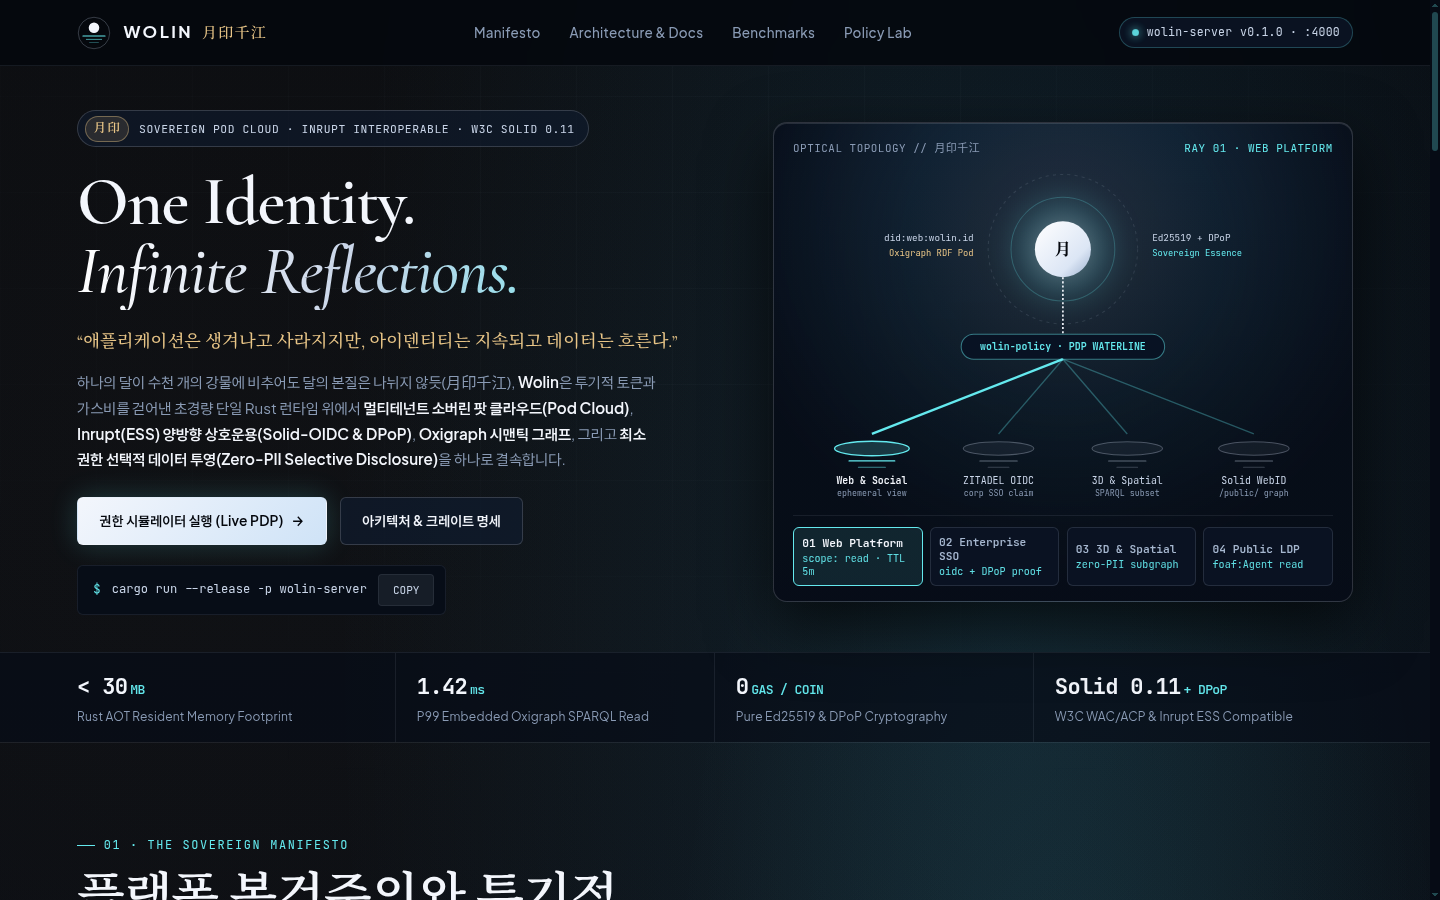
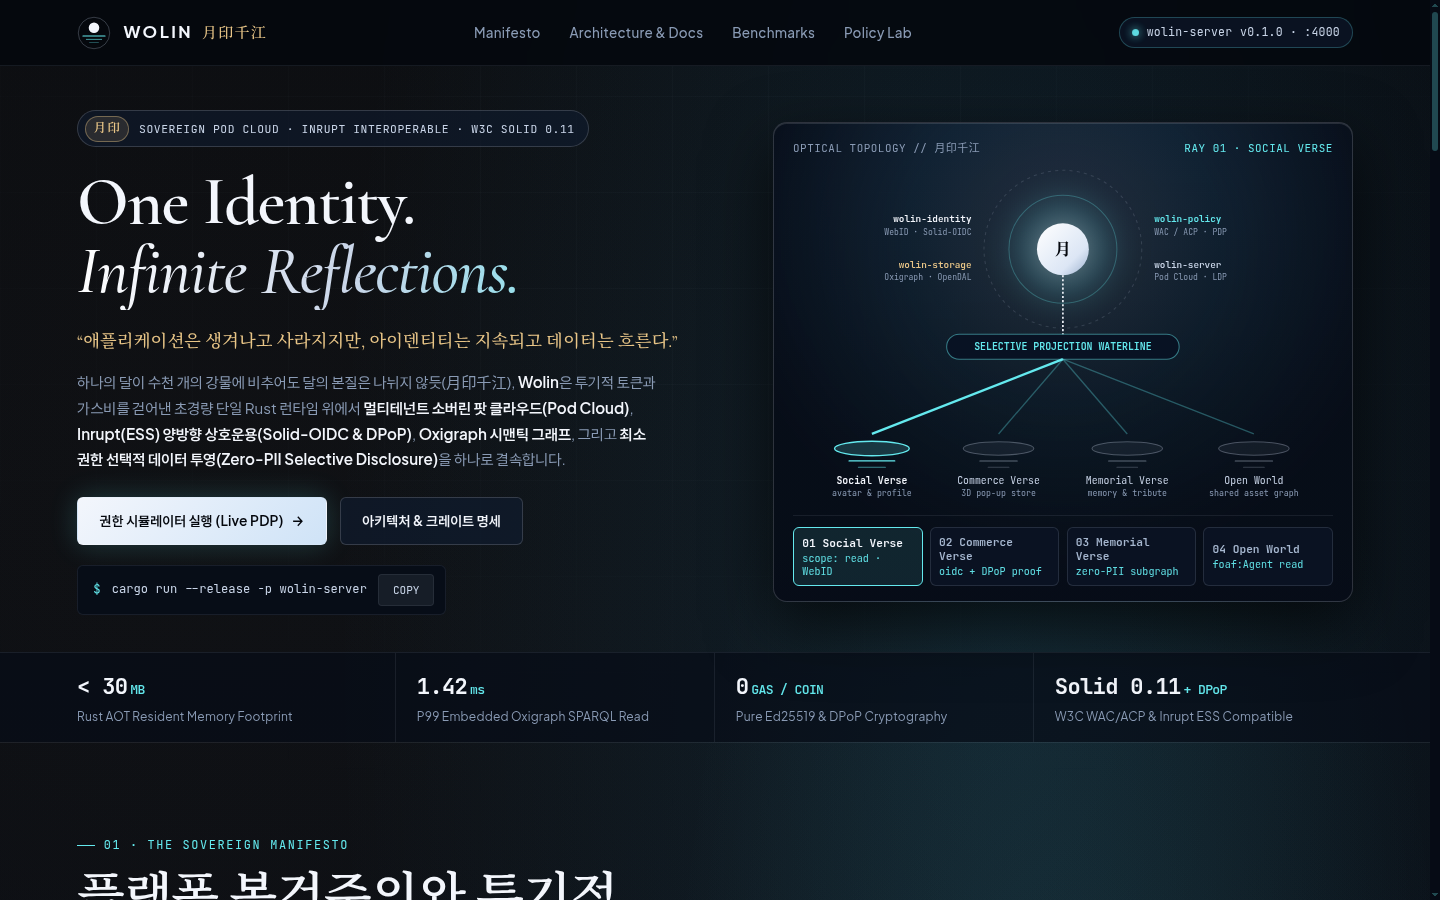
feat(web): embed core Wolin modules in the Moon and metaverse apps as reflected shadows

diff --git a/index.html b/index.html
@@ -1661,7 +1661,7 @@
         <div class="astrolabe-stage" role="region" aria-label="Lunar Reflection Projection Diagram">
           <div class="astrolabe-topbar">
             <span>OPTICAL TOPOLOGY // 月印千江</span>
-            <span id="active-ray-label" style="color: var(--refraction);">RAY 01 · WEB PLATFORM</span>
+            <span id="active-ray-label" style="color: var(--refraction);">RAY 01 · SOCIAL VERSE</span>
           </div>
 
           <svg class="astrolabe-svg" viewBox="0 0 520 332" fill="none" xmlns="http://www.w3.org/2000/svg">
@@ -1683,31 +1683,37 @@
               </linearGradient>
             </defs>
 
-            <!-- Astronomical Orbit Rings -->
-            <circle cx="260" cy="84" r="72" stroke="rgba(201,213,232,0.13)" stroke-dasharray="3 4"/>
-            <circle cx="260" cy="84" r="50" stroke="rgba(100,233,238,0.24)" stroke-width="1"/>
+            <!-- Astronomical Orbit Rings (One Moon Containing Core Wolin Modules) -->
+            <circle cx="260" cy="84" r="76" stroke="rgba(201,213,232,0.16)" stroke-dasharray="3 4"/>
+            <circle cx="260" cy="84" r="52" stroke="rgba(100,233,238,0.28)" stroke-width="1"/>
             <circle cx="260" cy="84" r="84" fill="url(#moonHalo)"/>
 
-            <!-- Sovereign Moon (Singular Identity & Semantic Pod) -->
-            <circle cx="260" cy="84" r="27" fill="url(#moonSurface)"/>
+            <!-- Sovereign Moon (Singular Identity & Wolin Core) -->
+            <circle cx="260" cy="84" r="25" fill="url(#moonSurface)"/>
             <text x="260" y="89.5" text-anchor="middle" fill="#04070D" font-family="Cormorant Garamond, Noto Serif KR, serif" font-weight="700" font-size="16">月</text>
 
-            <!-- Symmetrical Coordinate Callouts Outside Orbit -->
-            <text x="174" y="76" text-anchor="end" fill="#C9D5E8" font-family="JetBrains Mono, monospace" font-size="9">did:web:wolin.id</text>
-            <text x="174" y="91" text-anchor="end" fill="#E8C587" font-family="JetBrains Mono, monospace" font-size="8.5">Oxigraph RDF Pod</text>
+            <!-- Core Wolin Modules Orbiting Inside the One Moon -->
+            <text x="172" y="58" text-anchor="end" fill="#F3F6FC" font-family="JetBrains Mono, monospace" font-size="9" font-weight="600">wolin-identity</text>
+            <text x="172" y="70" text-anchor="end" fill="#8A9BB5" font-family="JetBrains Mono, monospace" font-size="7.8">WebID · Solid-OIDC</text>
 
-            <text x="346" y="76" text-anchor="start" fill="#C9D5E8" font-family="JetBrains Mono, monospace" font-size="9">Ed25519 + DPoP</text>
-            <text x="346" y="91" text-anchor="start" fill="#64E9EE" font-family="JetBrains Mono, monospace" font-size="8.5">Sovereign Essence</text>
+            <text x="172" y="102" text-anchor="end" fill="#E8C587" font-family="JetBrains Mono, monospace" font-size="9" font-weight="600">wolin-storage</text>
+            <text x="172" y="114" text-anchor="end" fill="#8A9BB5" font-family="JetBrains Mono, monospace" font-size="7.8">Oxigraph · OpenDAL</text>
+
+            <text x="348" y="58" text-anchor="start" fill="#64E9EE" font-family="JetBrains Mono, monospace" font-size="9" font-weight="600">wolin-policy</text>
+            <text x="348" y="70" text-anchor="start" fill="#8A9BB5" font-family="JetBrains Mono, monospace" font-size="7.8">WAC / ACP · PDP</text>
+
+            <text x="348" y="102" text-anchor="start" fill="#C9D5E8" font-family="JetBrains Mono, monospace" font-size="9" font-weight="600">wolin-server</text>
+            <text x="348" y="114" text-anchor="start" fill="#8A9BB5" font-family="JetBrains Mono, monospace" font-size="7.8">Pod Cloud · LDP</text>
 
             <!-- Incident Beam from Moon to Policy Waterline -->
-            <line x1="260" y1="111" x2="260" y2="178" stroke="#F3F6FC" stroke-width="1.6" stroke-dasharray="2 2"/>
+            <line x1="260" y1="109" x2="260" y2="178" stroke="#F3F6FC" stroke-width="1.6" stroke-dasharray="2 2"/>
 
             <!-- Waterline Horizon: Policy Decision & Selective Disclosure Membrane -->
             <line x1="20" y1="178" x2="500" y2="178" stroke="url(#horizonGlow)" stroke-width="2"/>
-            <rect x="162" y="166" width="196" height="24" rx="12" fill="#081223" stroke="rgba(100,233,238,0.48)"/>
-            <text x="260" y="181.5" text-anchor="middle" fill="#64E9EE" font-family="JetBrains Mono, monospace" font-size="9.5" font-weight="600">wolin-policy · PDP WATERLINE</text>
+            <rect x="148" y="166" width="224" height="24" rx="12" fill="#081223" stroke="rgba(100,233,238,0.48)"/>
+            <text x="260" y="181.5" text-anchor="middle" fill="#64E9EE" font-family="JetBrains Mono, monospace" font-size="9.5" font-weight="600">SELECTIVE PROJECTION WATERLINE</text>
 
-            <!-- Refracted Projection Rays into 4 Rivers -->
+            <!-- Refracted Projection Rays into 4 Metaverse Apps -->
             <g id="refraction-rays">
               <path id="ray-0" d="M260 190 L76 262" stroke="#64E9EE" stroke-width="2.3" opacity="1"/>
               <path id="ray-1" d="M260 190 L198 262" stroke="rgba(100,233,238,0.32)" stroke-width="1.25"/>
@@ -1715,60 +1721,60 @@
               <path id="ray-3" d="M260 190 L444 262" stroke="rgba(100,233,238,0.32)" stroke-width="1.25"/>
             </g>
 
-            <!-- 4 River Reflection Nodes (Shimmering Water Ripples) -->
-            <!-- River 0 -->
+            <!-- 4 Metaverse App Reflection Nodes (Moon's Shadows on Water) -->
+            <!-- Metaverse 0 -->
             <g transform="translate(76, 276)">
               <ellipse cx="0" cy="0" rx="36" ry="7" fill="rgba(100,233,238,0.18)" stroke="#64E9EE" stroke-width="1.3" id="ripple-0"/>
               <line x1="-22" y1="12" x2="22" y2="12" stroke="#64E9EE" stroke-width="1.2" stroke-linecap="round"/>
               <line x1="-13" y1="18" x2="13" y2="18" stroke="rgba(100,233,238,0.55)" stroke-width="1" stroke-linecap="round"/>
-              <text x="0" y="34" text-anchor="middle" fill="#F3F6FC" font-family="JetBrains Mono, monospace" font-size="9.5" font-weight="600">Web &amp; Social</text>
-              <text x="0" y="46" text-anchor="middle" fill="#8A9BB5" font-family="JetBrains Mono, monospace" font-size="8">ephemeral view</text>
+              <text x="0" y="34" text-anchor="middle" fill="#F3F6FC" font-family="JetBrains Mono, monospace" font-size="9.5" font-weight="600">Social Verse</text>
+              <text x="0" y="46" text-anchor="middle" fill="#8A9BB5" font-family="JetBrains Mono, monospace" font-size="8">avatar &amp; profile</text>
             </g>
 
-            <!-- River 1 -->
+            <!-- Metaverse 1 -->
             <g transform="translate(198, 276)">
               <ellipse cx="0" cy="0" rx="34" ry="6.5" fill="rgba(201,213,232,0.06)" stroke="rgba(201,213,232,0.32)" stroke-width="1" id="ripple-1"/>
               <line x1="-18" y1="12" x2="18" y2="12" stroke="rgba(201,213,232,0.45)" stroke-width="1" stroke-linecap="round"/>
               <line x1="-10" y1="18" x2="10" y2="18" stroke="rgba(201,213,232,0.25)" stroke-width="1" stroke-linecap="round"/>
-              <text x="0" y="34" text-anchor="middle" fill="#C9D5E8" font-family="JetBrains Mono, monospace" font-size="9.5">ZITADEL OIDC</text>
-              <text x="0" y="46" text-anchor="middle" fill="#8A9BB5" font-family="JetBrains Mono, monospace" font-size="8">corp SSO claim</text>
+              <text x="0" y="34" text-anchor="middle" fill="#C9D5E8" font-family="JetBrains Mono, monospace" font-size="9.5">Commerce Verse</text>
+              <text x="0" y="46" text-anchor="middle" fill="#8A9BB5" font-family="JetBrains Mono, monospace" font-size="8">3D pop-up store</text>
             </g>
 
-            <!-- River 2 -->
+            <!-- Metaverse 2 -->
             <g transform="translate(322, 276)">
               <ellipse cx="0" cy="0" rx="34" ry="6.5" fill="rgba(201,213,232,0.06)" stroke="rgba(201,213,232,0.32)" stroke-width="1" id="ripple-2"/>
               <line x1="-18" y1="12" x2="18" y2="12" stroke="rgba(201,213,232,0.45)" stroke-width="1" stroke-linecap="round"/>
               <line x1="-10" y1="18" x2="10" y2="18" stroke="rgba(201,213,232,0.25)" stroke-width="1" stroke-linecap="round"/>
-              <text x="0" y="34" text-anchor="middle" fill="#C9D5E8" font-family="JetBrains Mono, monospace" font-size="9.5">3D &amp; Spatial</text>
-              <text x="0" y="46" text-anchor="middle" fill="#8A9BB5" font-family="JetBrains Mono, monospace" font-size="8">SPARQL subset</text>
+              <text x="0" y="34" text-anchor="middle" fill="#C9D5E8" font-family="JetBrains Mono, monospace" font-size="9.5">Memorial Verse</text>
+              <text x="0" y="46" text-anchor="middle" fill="#8A9BB5" font-family="JetBrains Mono, monospace" font-size="8">memory &amp; tribute</text>
             </g>
 
-            <!-- River 3 -->
+            <!-- Metaverse 3 -->
             <g transform="translate(444, 276)">
               <ellipse cx="0" cy="0" rx="34" ry="6.5" fill="rgba(201,213,232,0.06)" stroke="rgba(201,213,232,0.32)" stroke-width="1" id="ripple-3"/>
               <line x1="-18" y1="12" x2="18" y2="12" stroke="rgba(201,213,232,0.45)" stroke-width="1" stroke-linecap="round"/>
               <line x1="-10" y1="18" x2="10" y2="18" stroke="rgba(201,213,232,0.25)" stroke-width="1" stroke-linecap="round"/>
-              <text x="0" y="34" text-anchor="middle" fill="#C9D5E8" font-family="JetBrains Mono, monospace" font-size="9.5">Solid WebID</text>
-              <text x="0" y="46" text-anchor="middle" fill="#8A9BB5" font-family="JetBrains Mono, monospace" font-size="8">/public/ graph</text>
+              <text x="0" y="34" text-anchor="middle" fill="#C9D5E8" font-family="JetBrains Mono, monospace" font-size="9.5">Open World</text>
+              <text x="0" y="46" text-anchor="middle" fill="#8A9BB5" font-family="JetBrains Mono, monospace" font-size="8">shared asset graph</text>
             </g>
           </svg>
 
-          <!-- Interactive River Selector -->
-          <div class="river-selector-bar" role="tablist" aria-label="Select River Projection">
+          <!-- Interactive Metaverse App Selector -->
+          <div class="river-selector-bar" role="tablist" aria-label="Select Metaverse Reflection">
             <button type="button" role="tab" aria-selected="true" class="river-chip active" onclick="focusRiver(0, this)">
-              <span class="river-chip-title">01 Web Platform</span>
-              <span class="river-chip-scope">scope: read · TTL 5m</span>
+              <span class="river-chip-title">01 Social Verse</span>
+              <span class="river-chip-scope">scope: read · WebID</span>
             </button>
             <button type="button" role="tab" aria-selected="false" class="river-chip" onclick="focusRiver(1, this)">
-              <span class="river-chip-title">02 Enterprise SSO</span>
+              <span class="river-chip-title">02 Commerce Verse</span>
               <span class="river-chip-scope">oidc + DPoP proof</span>
             </button>
             <button type="button" role="tab" aria-selected="false" class="river-chip" onclick="focusRiver(2, this)">
-              <span class="river-chip-title">03 3D &amp; Spatial</span>
+              <span class="river-chip-title">03 Memorial Verse</span>
               <span class="river-chip-scope">zero-PII subgraph</span>
             </button>
             <button type="button" role="tab" aria-selected="false" class="river-chip" onclick="focusRiver(3, this)">
-              <span class="river-chip-title">04 Public LDP</span>
+              <span class="river-chip-title">04 Open World</span>
               <span class="river-chip-scope">foaf:Agent read</span>
             </button>
           </div>
@@ -2265,10 +2271,10 @@ WHERE {
 
     // 2. Interactive Hero Lunar Reflection Astrolabe
     const riverMeta = [
-      { label: 'RAY 01 · WEB PLATFORM (SCOPED READ)' },
-      { label: 'RAY 02 · ZITADEL ENTERPRISE OIDC' },
-      { label: 'RAY 03 · 3D & SPATIAL WEB PROJECTION' },
-      { label: 'RAY 04 · PUBLIC SOLID WEBID GRAPH' }
+      { label: 'RAY 01 · SOCIAL VERSE (SCOPED PROFILE)' },
+      { label: 'RAY 02 · COMMERCE VERSE (3D POP-UP)' },
+      { label: 'RAY 03 · MEMORIAL VERSE (PRIVATE POD)' },
+      { label: 'RAY 04 · OPEN WORLD (PUBLIC ASSETS)' }
     ];
 
     function focusRiver(idx, btnEl) {
